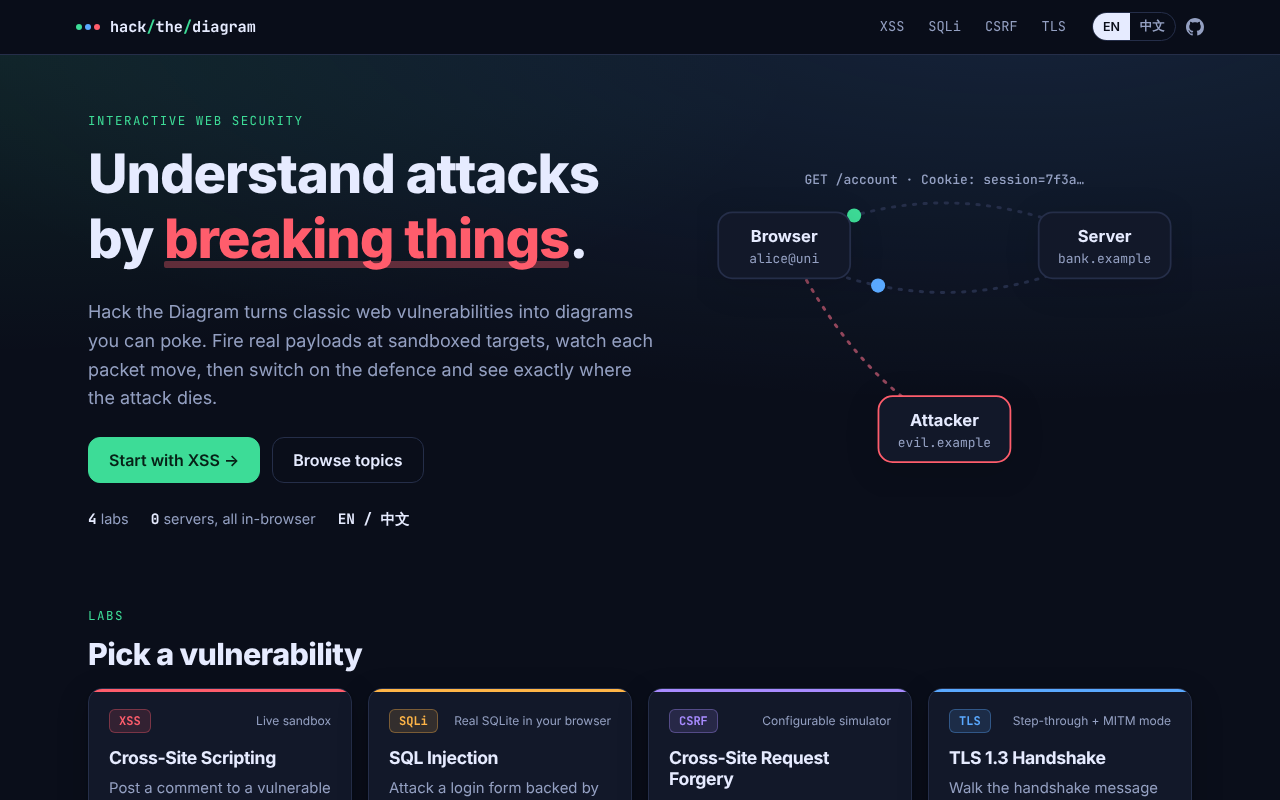
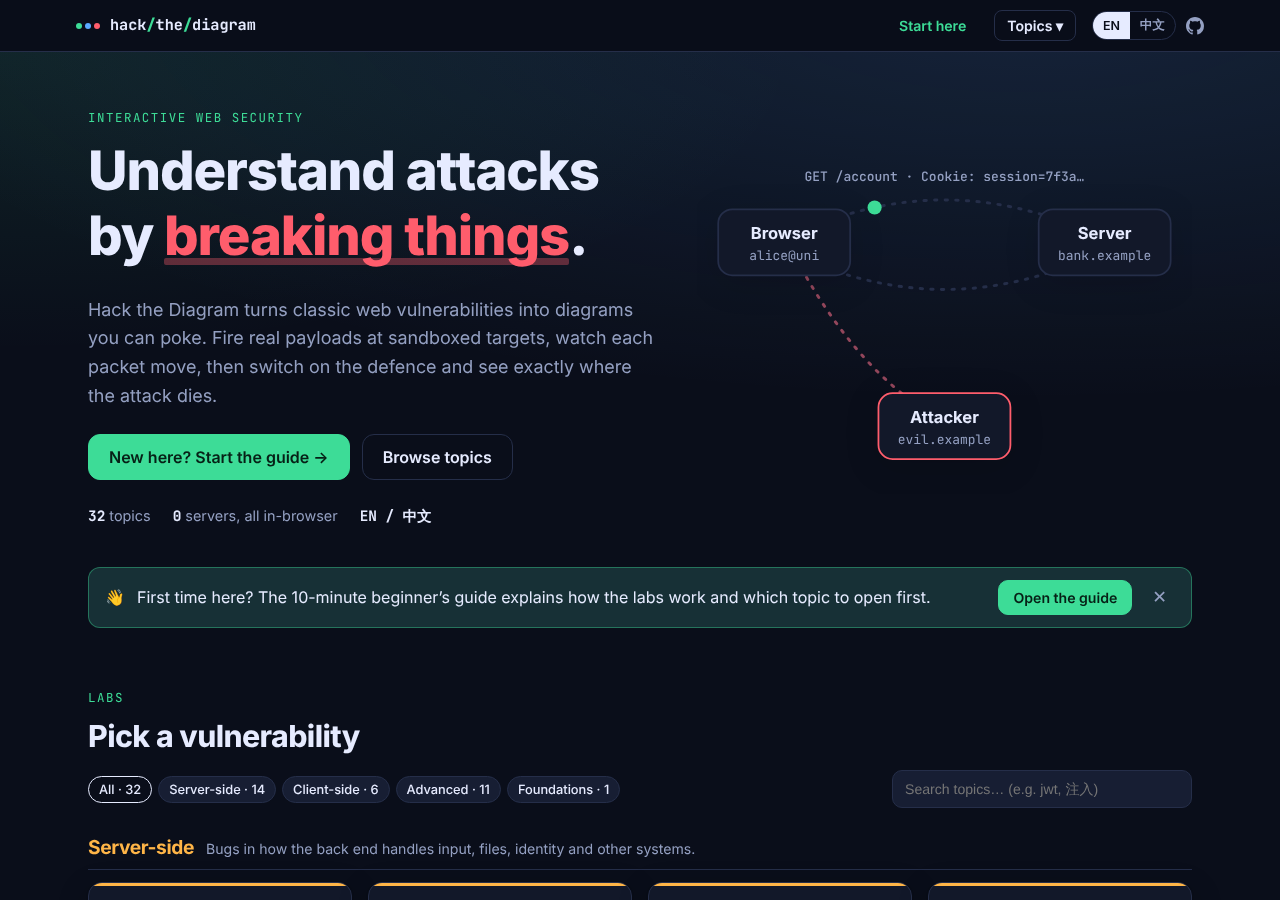
Add demo GIFs to the README
Claude-Session: https://claude.ai/code/session_01HjDGstrrtpH2skKgWTec9U

diff --git a/README.md b/README.md
@@ -12,6 +12,24 @@
 
 ![Landing page](docs/home.png)
 
+## Demo
+
+**XSS:** post a payload to a sandboxed forum, watch it steal the cookie and deface the page, then switch on output encoding and see it turn into plain text.
+
+![XSS demo](docs/demo-xss.gif)
+
+**SQL injection:** type `admin'--` and the query shows which characters stayed data and which became SQL code, against a real SQLite database in the browser.
+
+![SQL injection demo](docs/demo-sqli.gif)
+
+**Challenges:** no presets. Get past the blocklist yourself and the explanation unlocks.
+
+![Challenge demo](docs/demo-challenge.gif)
+
+**TLS 1.3:** step through the handshake under an active man-in-the-middle and see where the forged certificate is caught.
+
+![TLS demo](docs/demo-tls.gif)
+
 ## Topics
 
 32 topics, organised like the [PortSwigger Web Security Academy](https://portswigger.net/web-security/all-topics) topic map (used only as a checklist; all explanations, diagrams and labs here are original).
@@ -41,10 +59,6 @@ Highlights:
 - **Clickjacking**: an opacity slider reveals the invisible frame under the decoy button.
 - **Request smuggling**: paste a raw request and see exactly where front end and back end disagree.
 - **SSRF, JWT, SSTI, NoSQLi, prototype pollution, …**: each lab simulates the vulnerable server and the fixed one with a single toggle.
-
-| XSS | SQL injection |
-| --- | --- |
-| ![XSS lab](docs/xss.png) | ![SQL injection lab](docs/sqli.png) |
 
 ## Safety
 
